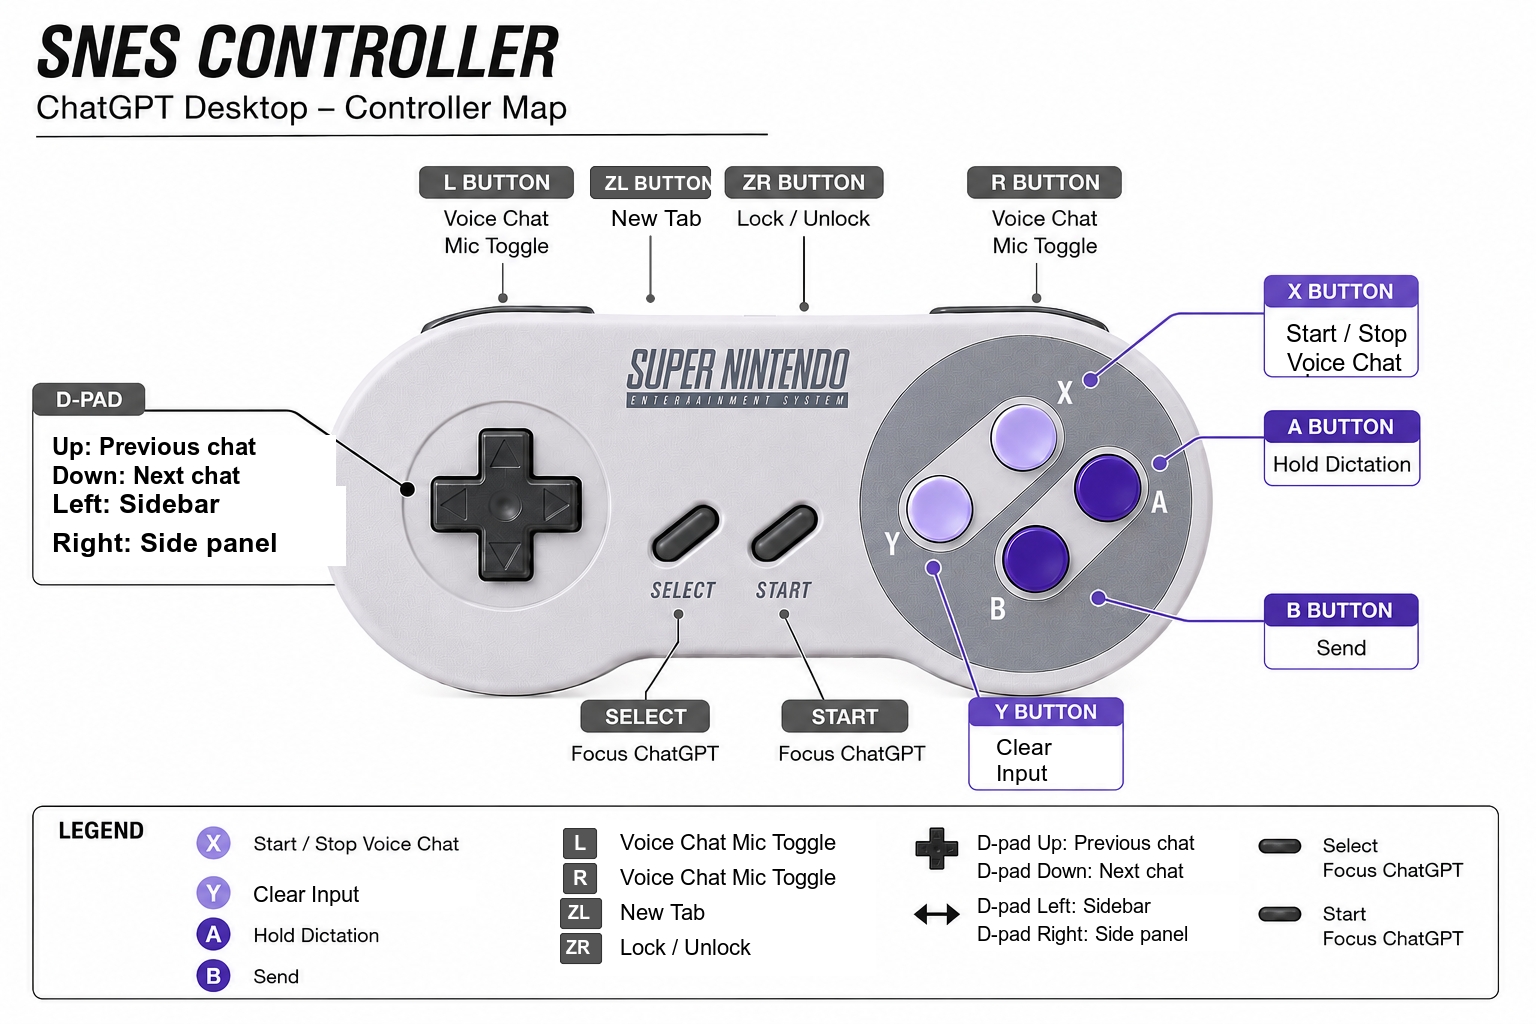
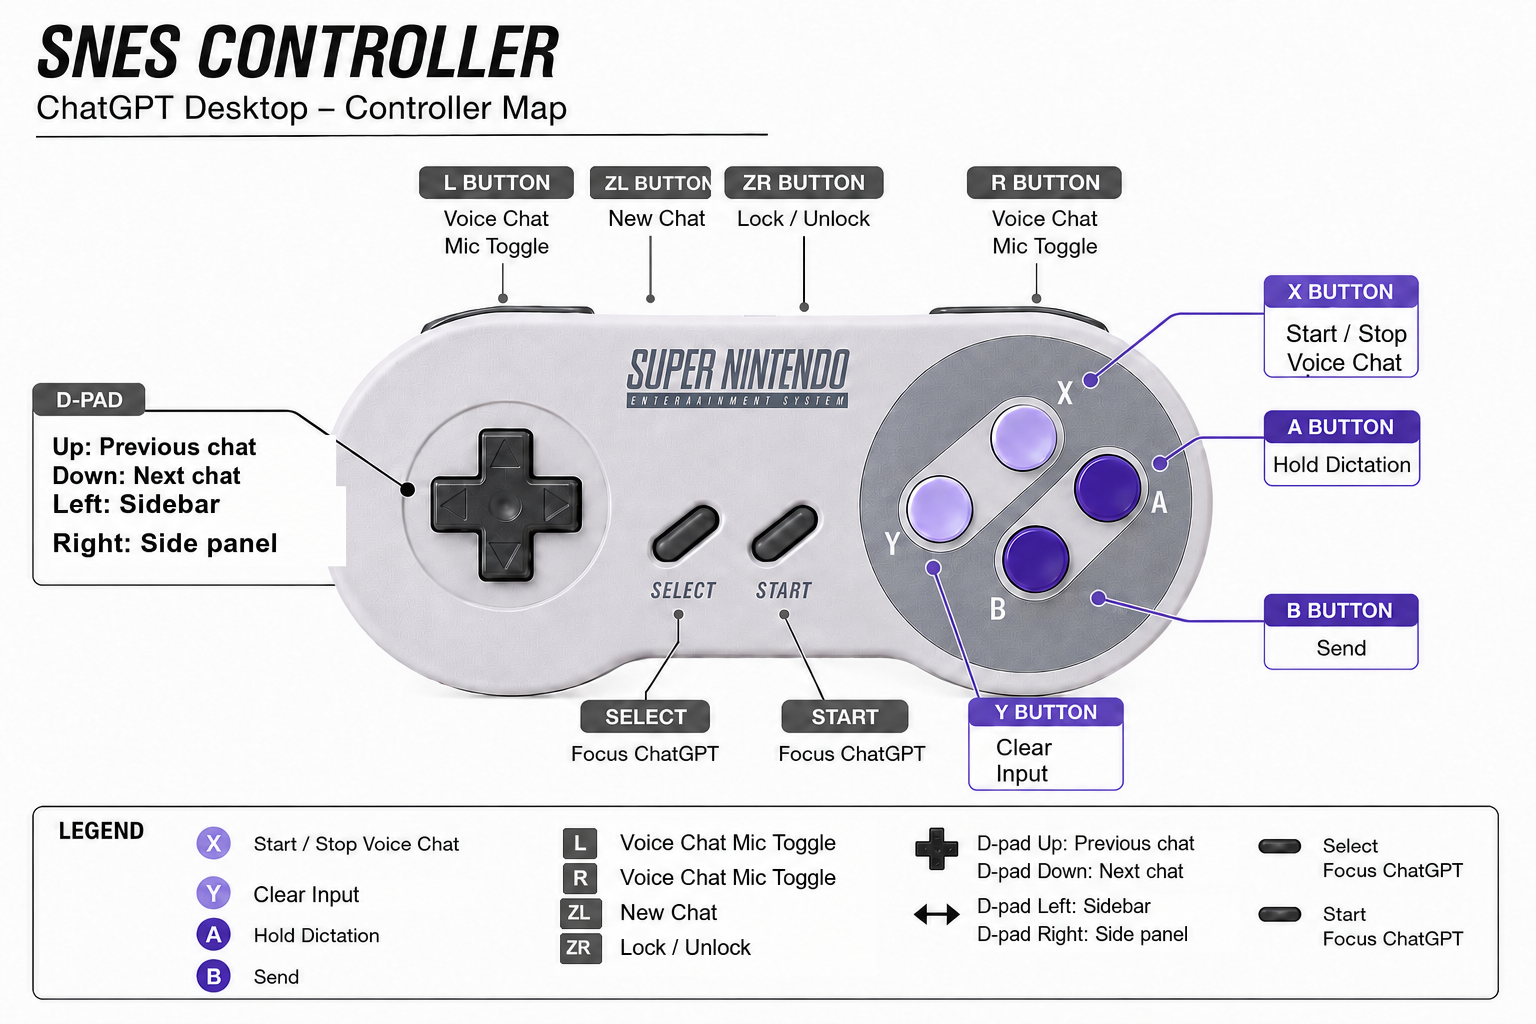
Add new chat mapping and stabilize accessibility identity

diff --git a/SNESChatGPTMenuBar.swift b/SNESChatGPTMenuBar.swift
@@ -21,6 +21,7 @@ private enum Action: String, CaseIterable {
     case nextChat
     case toggleSidebar
     case toggleSidePanel
+    case newChat
     case newTab
     case lockUnlock
 
@@ -48,6 +49,8 @@ private enum Action: String, CaseIterable {
             return "Toggle Sidebar"
         case .toggleSidePanel:
             return "Toggle Side Panel"
+        case .newChat:
+            return "New Chat"
         case .newTab:
             return "New Tab"
         case .lockUnlock:
@@ -79,6 +82,8 @@ private enum Action: String, CaseIterable {
             return "\(displayName) (⌘B)"
         case .toggleSidePanel:
             return "\(displayName) (⌥⌘B)"
+        case .newChat:
+            return "\(displayName) (⌘N)"
         case .newTab:
             return "\(displayName) (⌘T)"
         case .lockUnlock:
@@ -102,6 +107,7 @@ private enum Action: String, CaseIterable {
         .nextChat,
         .toggleSidebar,
         .toggleSidePanel,
+        .newChat,
         .newTab
     ]
 
@@ -170,7 +176,7 @@ private enum Control: String, CaseIterable {
         case .l, .r:
             return .toggleVoiceMic
         case .zl:
-            return .newTab
+            return .newChat
         case .zr:
             return .lockUnlock
         case .select, .start:
@@ -499,6 +505,8 @@ private final class ControllerMapper {
             focusThenPost(KeyStroke(keyCode: 11, flags: [.maskCommand]))
         case .toggleSidePanel:
             focusThenPost(KeyStroke(keyCode: 11, flags: [.maskAlternate, .maskCommand]))
+        case .newChat:
+            focusThenPost(KeyStroke(keyCode: 45, flags: [.maskCommand]))
         case .newTab:
             focusThenPost(KeyStroke(keyCode: 17, flags: [.maskCommand]))
         case .lockUnlock:
@@ -775,6 +783,7 @@ private final class AppDelegate: NSObject, NSApplicationDelegate, ControllerMapp
     }
 
     @objc private func openAccessibilitySettings() {
+        mapper.requestKeyboardPermission()
         if let url = URL(string: "x-apple.systempreferences:com.apple.preference.security?Privacy_Accessibility") {
             NSWorkspace.shared.open(url)
         }

diff --git a/SNESChatGPTMapper.swift b/SNESChatGPTMapper.swift
@@ -25,6 +25,7 @@ private enum Action: String {
     case nextChat = "next chat"
     case toggleSidebar = "toggle sidebar"
     case toggleSidePanel = "toggle side panel"
+    case newChat = "new chat"
     case newTab = "new tab"
 }
 
@@ -53,7 +54,7 @@ private final class Mapper {
         4: .toggleVoiceChat, // X
         5: .toggleVoiceMic,  // L
         6: .toggleVoiceMic,  // R
-        7: .newTab,          // ZL
+        7: .newChat,         // ZL
         9: .focusChatGPT,    // Select / Back
         10: .focusChatGPT    // Start
     ]
@@ -112,7 +113,7 @@ private final class Mapper {
             print("Start/Select: focus ChatGPT")
             print("X/Y: start/stop Voice Chat")
             print("L/R: toggle Voice Chat microphone shortcut (^⌥⌘M)")
-            print("ZL: open new tab")
+            print("ZL: start a new chat")
             print("ZR: lock/unlock mapper")
             print("D-pad Up/Down: previous/next chat")
             print("D-pad Left: toggle sidebar")
@@ -242,6 +243,8 @@ private final class Mapper {
             focusThenPost(KeyStroke(keyCode: 11, flags: [.maskCommand]))
         case .toggleSidePanel:
             focusThenPost(KeyStroke(keyCode: 11, flags: [.maskAlternate, .maskCommand]))
+        case .newChat:
+            focusThenPost(KeyStroke(keyCode: 45, flags: [.maskCommand]))
         case .newTab:
             focusThenPost(KeyStroke(keyCode: 17, flags: [.maskCommand]))
         }
@@ -362,7 +365,7 @@ private func printUsageAndExit() -> Never {
       X              -> Control + Shift + V
       Y              -> Command + A, Delete
       L / R          -> Control + Option + Command + M
-      ZL             -> Command + T
+      ZL             -> Command + N
       ZR             -> lock/unlock mapper
       D-pad Up       -> Shift + Command + [
       D-pad Down     -> Shift + Command + ]

diff --git a/README.md b/README.md
@@ -18,7 +18,7 @@ This project is unofficial and is not affiliated with OpenAI, ChatGPT, or Ninten
 | X | Start or stop Voice Chat (`Control + Shift + V`) |
 | Y | Clear the current input (`Command + A`, then `Delete`) |
 | L / R | Toggle Voice Chat microphone (`Control + Option + Command + M`) |
-| ZL | Open a new tab (`Command + T`) |
+| ZL | Start a new chat (`Command + N`) |
 | ZR | Lock or unlock the mapper; locked mode ignores every controller input except ZR |
 | D-pad Up | Previous chat (`Shift + Command + [`) |
 | D-pad Down | Next chat (`Shift + Command + ]`) |
